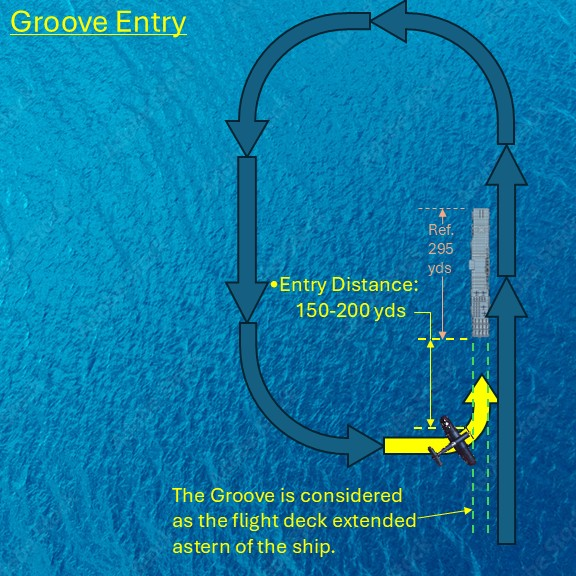
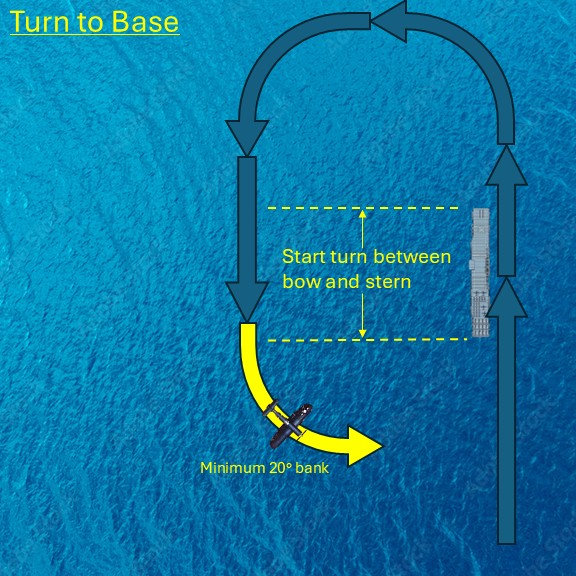
Update briefing slides and readme

Changed region(s): [[0.2812, 0.3438, 0.875, 0.9688], [0.0, 0.0, 0.3438, 0.0625]]

diff --git a/README.md b/README.md
@@ -14,6 +14,7 @@ The script is not yet available to public. You will not find it in this reposito
 * [Installation](#installation)
 * [Flying the Pattern](#flying-the-pattern)
 * [Technical Info. for Scoring](#technical-info-for-scoring)
+* [Landing Signal Officer (LSO)](#landing-signal-officer-lso-feature)
 * [Carrier Auto Wind Alignment](#carrier-auto-wind-alignment)
 * [Contact Info](#contact-info)
 * [Forum Thread](#forum-thread)
@@ -128,22 +129,27 @@ Video tutorial by vCTF-58: https://youtu.be/XJ7T8LTq7Y0?si=9prA_tbjedNAvJGW
 ![Log](screenshots/log.jpg)  
 
 
-![1](BriefingSlides/Slide1.jpg)
-![2](BriefingSlides/Slide2.jpg)
-![3](BriefingSlides/Slide3.jpg)
-![4](BriefingSlides/Slide4.jpg)
-![5](BriefingSlides/Slide5.jpg)
-![6](BriefingSlides/Slide6.jpg)
-![7](BriefingSlides/Slide7.jpg)
-![8](BriefingSlides/Slide8.jpg)
-![9](BriefingSlides/Slide9.jpg)
-![10](BriefingSlides/Slide10.jpg)
-![11](BriefingSlides/Slide11.jpg)
-![12](BriefingSlides/Slide12.jpg)
+![1](BriefingSlides/Slide2.jpg)
+![2](BriefingSlides/Slide3.jpg)
+![3](BriefingSlides/Slide4.jpg)
+![4](BriefingSlides/Slide5.jpg)
+![5](BriefingSlides/Slide6.jpg)
+![6](BriefingSlides/Slide7.jpg)
+![7](BriefingSlides/Slide8.jpg)
+![8](BriefingSlides/Slide9.jpg)
+![9](BriefingSlides/Slide10.jpg)
+![10](BriefingSlides/Slide11.jpg)
+![11](BriefingSlides/Slide12.jpg)
+![12](BriefingSlides/Slide13.jpg)
 
 ## Technical Info. for Scoring
-![13](BriefingSlides/Slide13.jpg)
-![14](BriefingSlides/Slide14.jpg)
+![13](BriefingSlides/Slide14.jpg)
+![14](BriefingSlides/Slide15.jpg)
+![15](BriefingSlides/Slide16.jpg)
+
+## Landing Signal Officer (LSO) Lt. Leroy Flamingo
+The LSO will appear automatically as you are at the 90 coming around for final. He's there to help get you aligned, and also double-checks your aircraft configuration for landing. Learn the signals below.
+![16](BriefingSlides/Slide1.jpg)
 
 ## Carrier Auto Wind Alignment
 There's not much to this that isn't already explained in the [Features](#carrier-auto-wind-alignment-feature) above.  
